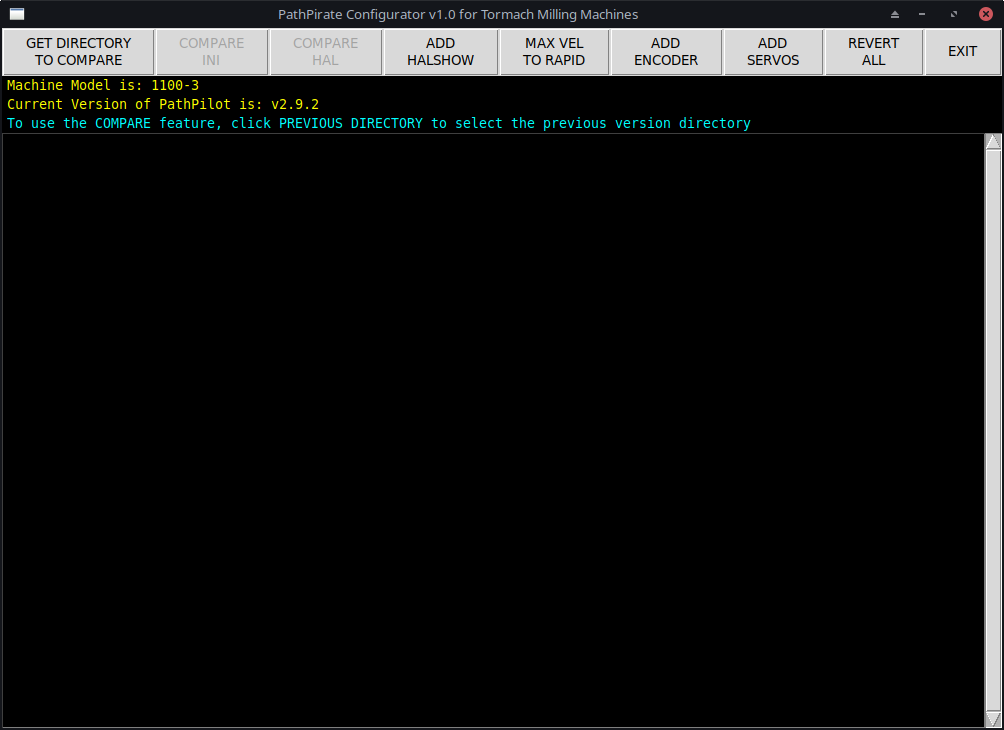
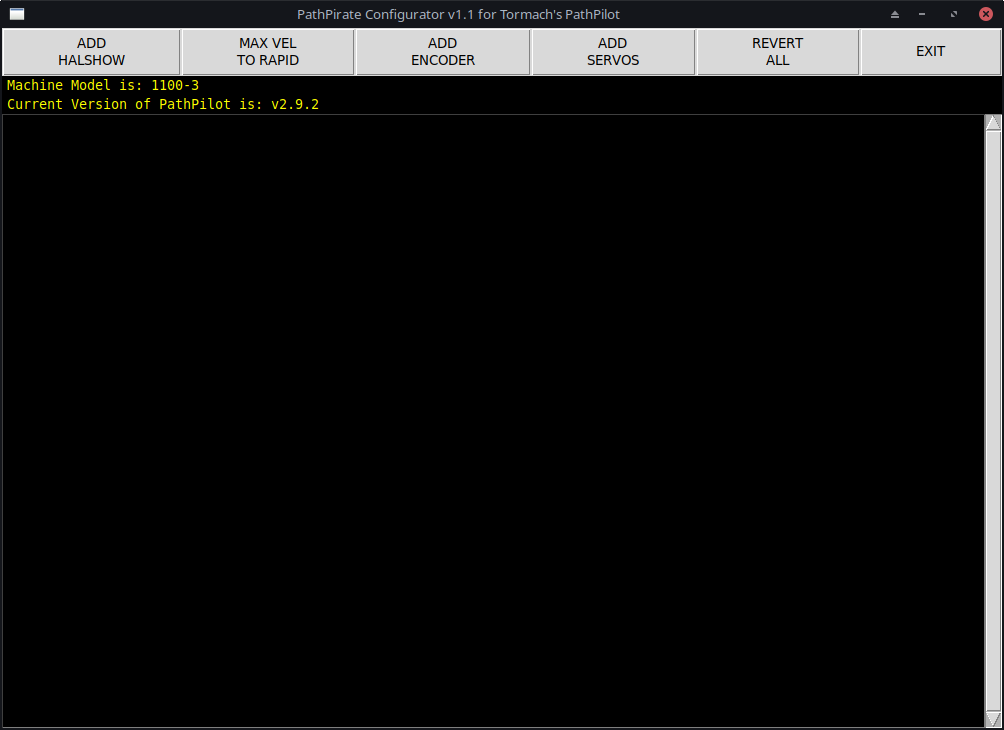
update readme.md/image

diff --git a/README.md b/README.md
@@ -1,14 +1,14 @@
 # PathPirate
-A script for automated configuration changes to Tormach's PathPilot. This script can be used on any Tormach machine as described below, however the "ADD ENCODER" and "ADD SERVOS" buttons will only show on an 1100-3 machine.
+A script for automated configuration changes to Tormach's PathPilot.
+
+This script can be used on any Tormach machine as described below, however the "ADD ENCODER" and "ADD SERVOS" buttons will currently only show on an 1100-3 machine.
 
 !['PathPirate'](images/pathpirate.png)
 
 ## Installation
 ### Requirements for using PathPirate are:
-  * A working installation of Tormach's PathPilot v2.0.0 or greater
+  * A working installation of Tormach's PathPilot v2.9.2 or greater
   * git (installed by default on PathPilot's stock image)
-  * wget (installed by default on PathPilot's stock image)
-  * mesaflash (installed by default on PathPilot's stock image)
 
 ### To install PathPirate (from a running PathPilot screen):
 
@@ -29,15 +29,10 @@ python ~/pathpirate/pathpirate.py
 
 ### Buttons Explained:
 
-* GET DIRECTORY TO COMPARE - This button allows the user to choose the folder location of the version used for comparison against the current version. Directory chosen must be v2.x.x.
-
-  NOTE: The current version is chosen by default, it is the folder that the symlink ~/tmc is pointed to.
-* COMPARE INI - This button will compare the INI file from the chosen version folder to the current version's INI file. This button is diabled until a valid comparison directory is chosen.
-* COMPARE HAL - This button will compare the HAL file from the chosen version folder to the current version's HAL file. This button is diabled until a valid comparison directory is chosen.
-* ADD HALSHOW - This button will add HALSHOW back to PathPilot. It can then be called by entering the MDI command "ADMIN HALSHOW". If the user has an internet connection, these files will be pulled from the LinuxCNC master github repository. If the user has no internet connection, a local version (from January 2023) included in this repository will be copied instead.
+* ADD HALSHOW - This button will add HALSHOW back to PathPilot. It can then be called by entering the MDI command "ADMIN HALSHOW". A local version (copied from the LinuxCNC github in January of 2023) included in this repository will be copied.
 * MAX VEL TO RAPID - This button will change PathPilot's MAX VEL slider to a RAPID slider. This will allow the user to control the feed rate and rapid rates independently which is not possible using MAX VEL.
-* ADD ENCODER - On an 1100-3 machine, this button will make the necessary modifications to the current version's INI and HAL files to add a spindle encoder. The user will be prompted to enter the encoder's scale. The necessary Mesa firmware (included in this repository) will be copied to the appropriate location and automatically flashed to the Mesa card. This button is hidden if the machine is not a 1100-3.
-* ADD SERVOS - On an 1100-3 machine, this button will make the necessary modifications to the current version's INI and HAL files to add ClearPath servos. The necessary Mesa firmware (included in this repository) will be copied to the appropriate location and automatically flashed to the Mesa card. This button is hidden if the machine is not a 1100-3.
+* ADD ENCODER - On an 1100-3 machine, this button will make the necessary modifications to the current version's INI and HAL files to add a spindle encoder. The user will be prompted to enter the encoder's scale. The necessary Mesa firmware (included in this repository) will be copied to the appropriate location. This button is hidden if the machine is not a 1100-3.
+* ADD SERVOS - On an 1100-3 machine, this button will make the necessary modifications to the current version's INI and HAL files to add ClearPath servos. The necessary Mesa firmware (included in this repository) will be copied to the appropriate location. This button is hidden if the machine is not a 1100-3.
 * REVERT ALL - This button will revert all changes by restoring the backed up files as the main files, and deleting any added files (including the backups). The original firmware will also be flashed to the Mesa card.
 
 The user will be notified when any changes require a restart, and prompted upon exit to restart automatically.
@@ -54,14 +49,14 @@ git pull
 ## Notes
 
 * By default, PathPirate will launch with the window maximized. This is to help prevent the window from becoming lost if the user accidentally clicks on the PathPilot window. Be careful minimizing the window as it can become difficult to get the window back if the PathPilot main screen is accidentally clicked on.
-* ADD ENCODER and ADD SERVOS assumes the user is using a Mesa 7i85s card in conjunction with a Mesa 5i25 card.
+* The current version is chosen by default, it is the folder that the symlink ~/tmc is pointed to.
+* ADD ENCODER and ADD SERVOS assumes the user is using a Mesa 7i85s card in conjunction with a Mesa 5i25, 7i92, or 7i92t card.
 * ADD SERVOS assumes the user has made the same wiring connections to the 7i85s card for the fault inputs.
 
-  They are as follows:
+  They are as follows for a "mill" setup (RapidTurn configs swap X and Z):
   1. X AXIS - encoder.02.input-a
   2. Y AXIS - encoder.02.input-b
   3. Z AXIS - encoder.02.input-index _<-- this input is not passed through the not component as it is inverted by design_
 
   ***It is important to note that encoder.01 was skipped intentionally as it is already in use on Tormach's milling machines.***
-* The Mesaflash process can take several seconds during which time PathPirate may appear to have frozen. Progress can be seen in the terminal window if the user is concerned.
-* If the user chooses to restart PathPilot upon exiting PathPirate, then the PathPilot shutdown screen telling them to power cycle the computer should be disregarded. The computer will automatically restart after several seconds.
+* If the user chooses to restart PathPilot upon exiting PathPirate, then the PathPilot shutdown screen telling them the computer may be turned off should be disregarded. The computer will automatically restart after several seconds.
